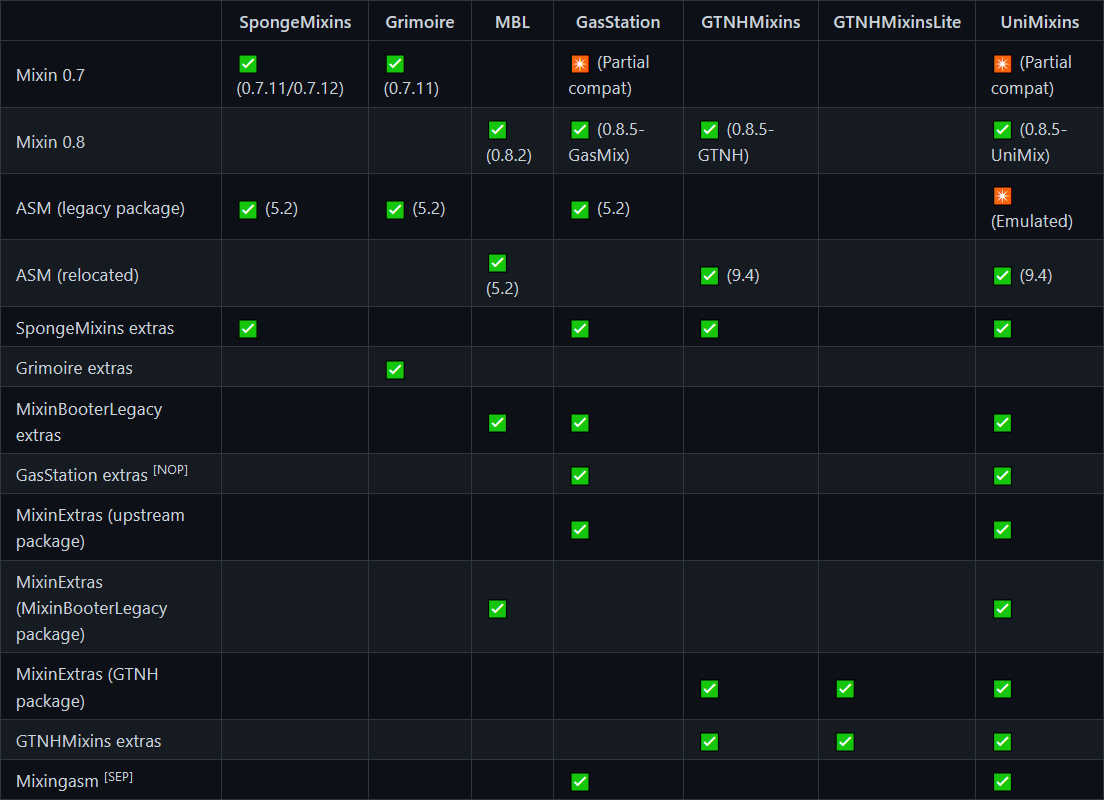
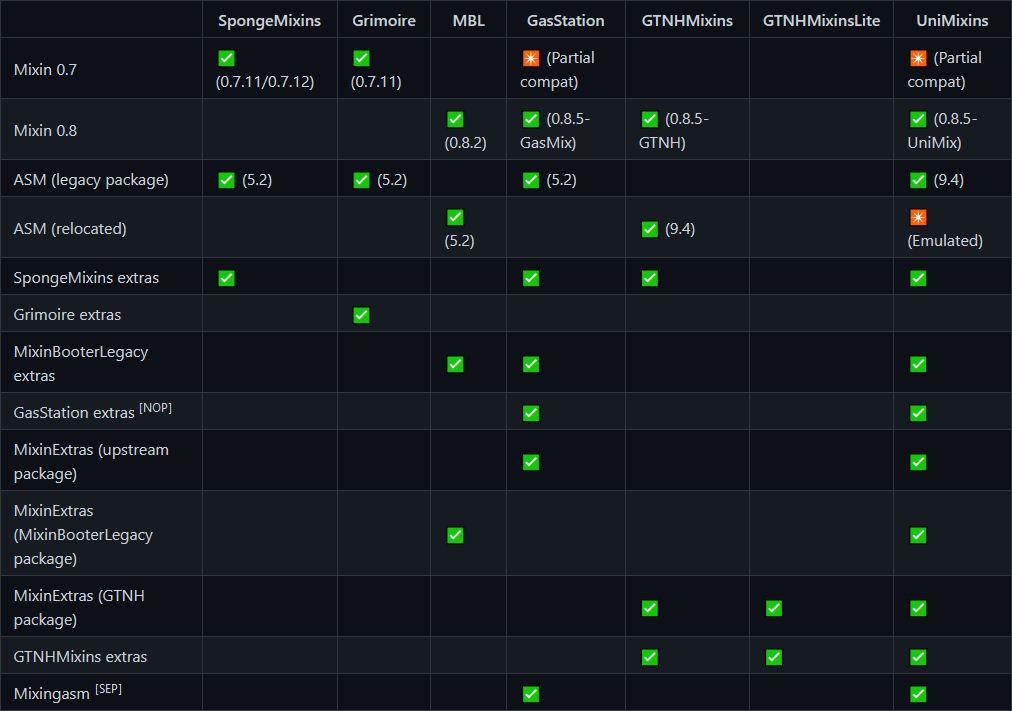
Fix comparison chart saying we relocate ASM, use 100% zoom

diff --git a/docs/comparison-chart.md b/docs/comparison-chart.md
@@ -2,8 +2,8 @@
 | -- | -- | -- | -- | -- | -- | -- | -- |
 | Mixin 0.7 | ✅ (0.7.11/0.7.12) | ✅ (0.7.11) | | ✴ (Partial compat) | | | ✴ (Partial compat) |
 | Mixin 0.8 | | | ✅ (0.8.2) | ✅ (0.8.5-GasMix) | ✅ (0.8.5-GTNH) | | ✅ (0.8.5-UniMix)
-| ASM (legacy package) | ✅ (5.2) | ✅ (5.2) | | ✅ (5.2) | | | ✴ (Emulated) |
-| ASM (relocated) | | | ✅ (5.2) | | ✅ (9.4) | | ✅ (9.4) |
+| ASM (legacy package) | ✅ (5.2) | ✅ (5.2) | | ✅ (5.2) | | | ✅ (9.4) |
+| ASM (relocated) | | | ✅ (5.2) | | ✅ (9.4) | | ✴ (Emulated) |
 | SpongeMixins extras | ✅ | | | ✅ | ✅ | | ✅ |
 | Grimoire extras | | ✅ | | | | | |
 | MixinBooterLegacy extras | | | ✅ | ✅ | | | ✅ |
